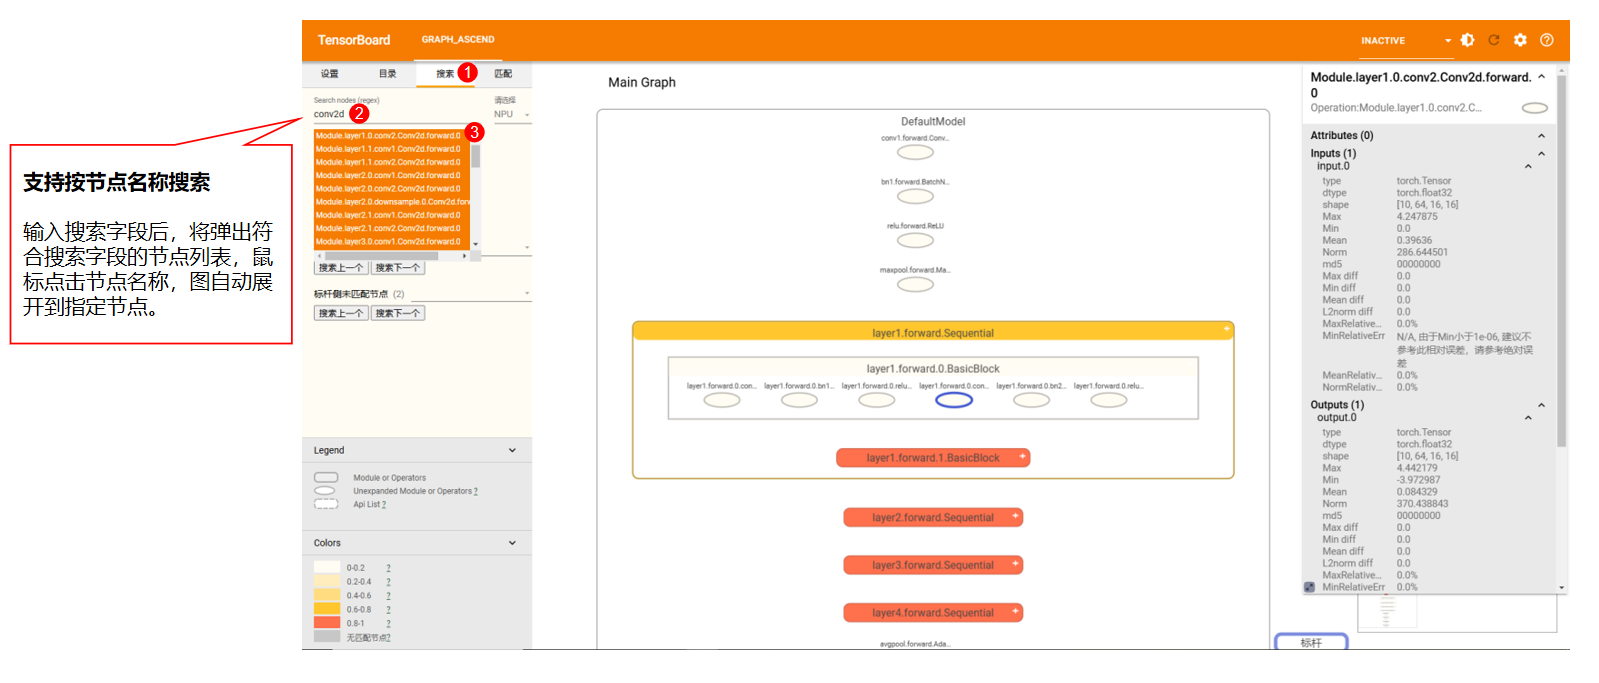
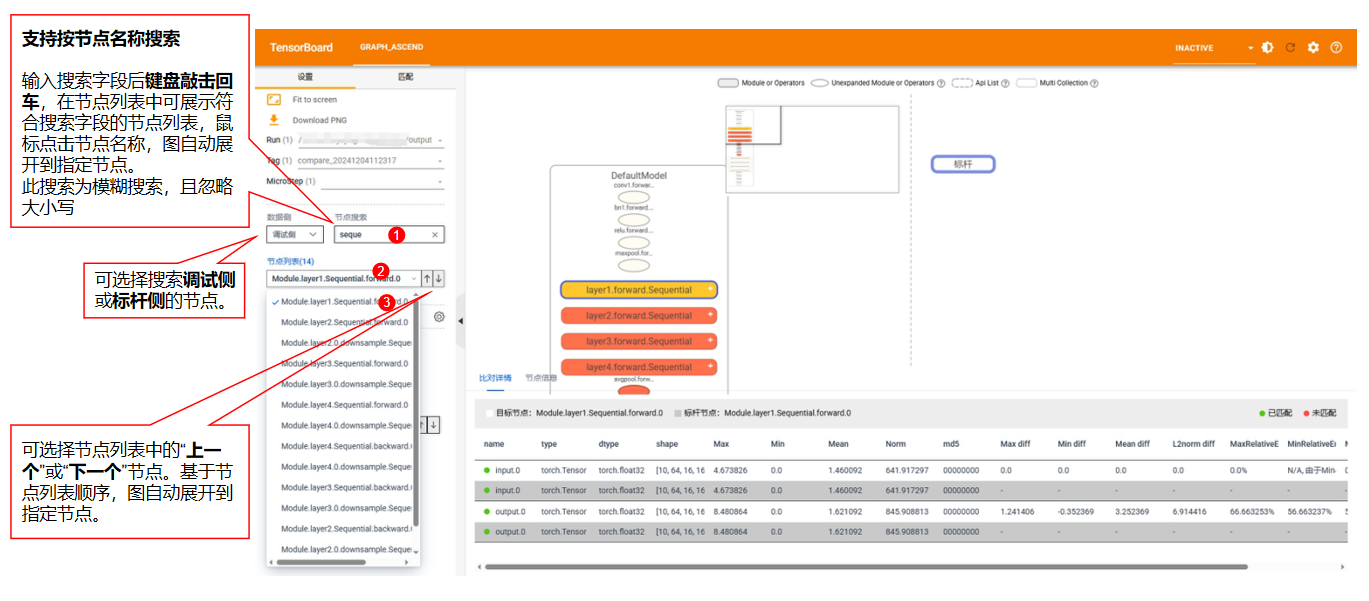
分级可视化资料更新

diff --git a/debug/accuracy_tools/msprobe/docs/22.visualization_MindSpore.md b/debug/accuracy_tools/msprobe/docs/22.visualization_MindSpore.md
@@ -4,13 +4,27 @@
 
 工具支持MindSpore版本：2.4.0
 
-## 展示示例
+## 更新通知
 
-支持重建模型的层级结构；
+请注意，tb_graph_ascend插件已于2025/3/12更新到1.0.0版本，如果当前环境已安装旧版本插件，推荐升级。
 
-支持两个模型的结构差异比对；
+更新内容如下：
 
-支持两个模型的精度数据比对，支持疑似有精度问题节点的快速搜索，自动跳转展开节点所在的层级。
+- 优化了信息栏，使用了更人性化、更美观的展示界面；
+- 提升了节点渲染和搜索性能；
+- 双图比对场景画布分离，操作左图时不会影响到右图；
+- 新增浏览器匹配节点功能，双图比对场景有未匹配节点时，可通过在浏览器页面手动选中调试侧和标杆侧的未匹配节点进行精度比对；
+- 新增颜色图例可配置功能。
+
+## 工具特性
+
+- 支持重建模型的层级结构；
+- 支持两个模型的结构差异比对；
+- 支持两个模型的精度数据比对；
+- 支持模型数据的溢出检测；
+- 支持多卡场景的批量构图，能够关联各卡的通信节点，分析各卡之间的数据传递；
+- 支持节点名称搜索，按精度比对结果筛选节点，按溢出检测结果筛选节点，支持自动跳转展开节点所在的层级；
+- 支持跨套件、跨框架的模型比对。
 
 ![vis_show](./img/visualization/vis_showcase.png)
 
@@ -359,15 +373,16 @@ tensorboard --logdir out_path
 ![vis_precision_info.png](./img/visualization/vis_precision_info.png)
 
 ### 5.5 未匹配节点筛选
-节点匹配规则：
 
-1.名称一致
-
-2.节点输入输出参数数量一致，参数type、shape一致
-
-3.节点的层级一致（父节点们一致）
+参考[匹配说明](#311-匹配说明) ，不符合匹配规则的节点为无匹配节点，颜色标灰。适用于排查两个模型结构差异的场景。
 
 ![vis_unmatch_info.png](./img/visualization/vis_unmatch_info.png)
+
+### 5.6 手动选择节点匹配
+
+可通过浏览器界面，通过鼠标选择两个待匹配的灰色节点进行匹配。当前暂不支持真实数据模式。
+
+![vis_match_info.png](./img/visualization/vis_match_info.png)
 
 ## 6.图比对说明
 
@@ -488,5 +503,9 @@ yaml文件中只需配置MindSpore与PyTorch模型代码中功能一致但名称
 节点呈现灰色，代表左边待调试侧节点与右边标杆侧节点没有匹配上，可能有以下几点原因：
 
 - **标杆侧确实没有能与待调试侧匹配上的节点**，属于代码实现上的差异，请确认此差异是否正常，是否会影响到整网精度。
-- **节点的输入或输出type、shape不一致，参数个数不一致，节点所在层级的父层级不一致**，导致节点无法匹配，具体匹配规则见[匹配说明](#311-匹配说明)，可尝试使用模糊匹配功能，如何使用此功能请参考[构图命令行说明](#31-构图命令行说明)。如果是参数shape不一致，即使是模糊匹配功能也无法让节点匹配上，请检查参数shape不一致是否合理。
-- **节点名称不一致**，导致节点无法匹配，可使用layer mapping功能，如何使用此功能请参考[构图命令行说明](#31-构图命令行说明)，如何自定义映射文件请参考[模型分级可视化如何配置layer mapping映射文件](./visualization/layer_mapping_example.md)。
+- **节点名称一致，但节点的输入或输出type、shape不一致，参数个数不一致，节点所在层级的父层级不一致，导致节点无法匹配**
+  - 具体匹配规则见[匹配说明](#311-匹配说明)，可尝试使用模糊匹配功能，如何使用此功能请参考[构图命令行说明](#31-构图命令行说明)；
+  - 如果是参数shape不一致，即使是模糊匹配功能也无法让节点匹配上，请检查参数shape不一致是否合理。
+- **节点名称不一致**，导致节点无法匹配，目前提供两种方法，选其一即可
+  - 可使用layer mapping功能，如何使用此功能请参考[构图命令行说明](#31-构图命令行说明)，如何自定义映射文件请参考[模型分级可视化如何配置layer mapping映射文件](./visualization/layer_mapping_example.md)；
+  - 可通过浏览器页面手动选择未匹配节点进行匹配，请参考[手动选择节点匹配](#56-手动选择节点匹配)。
